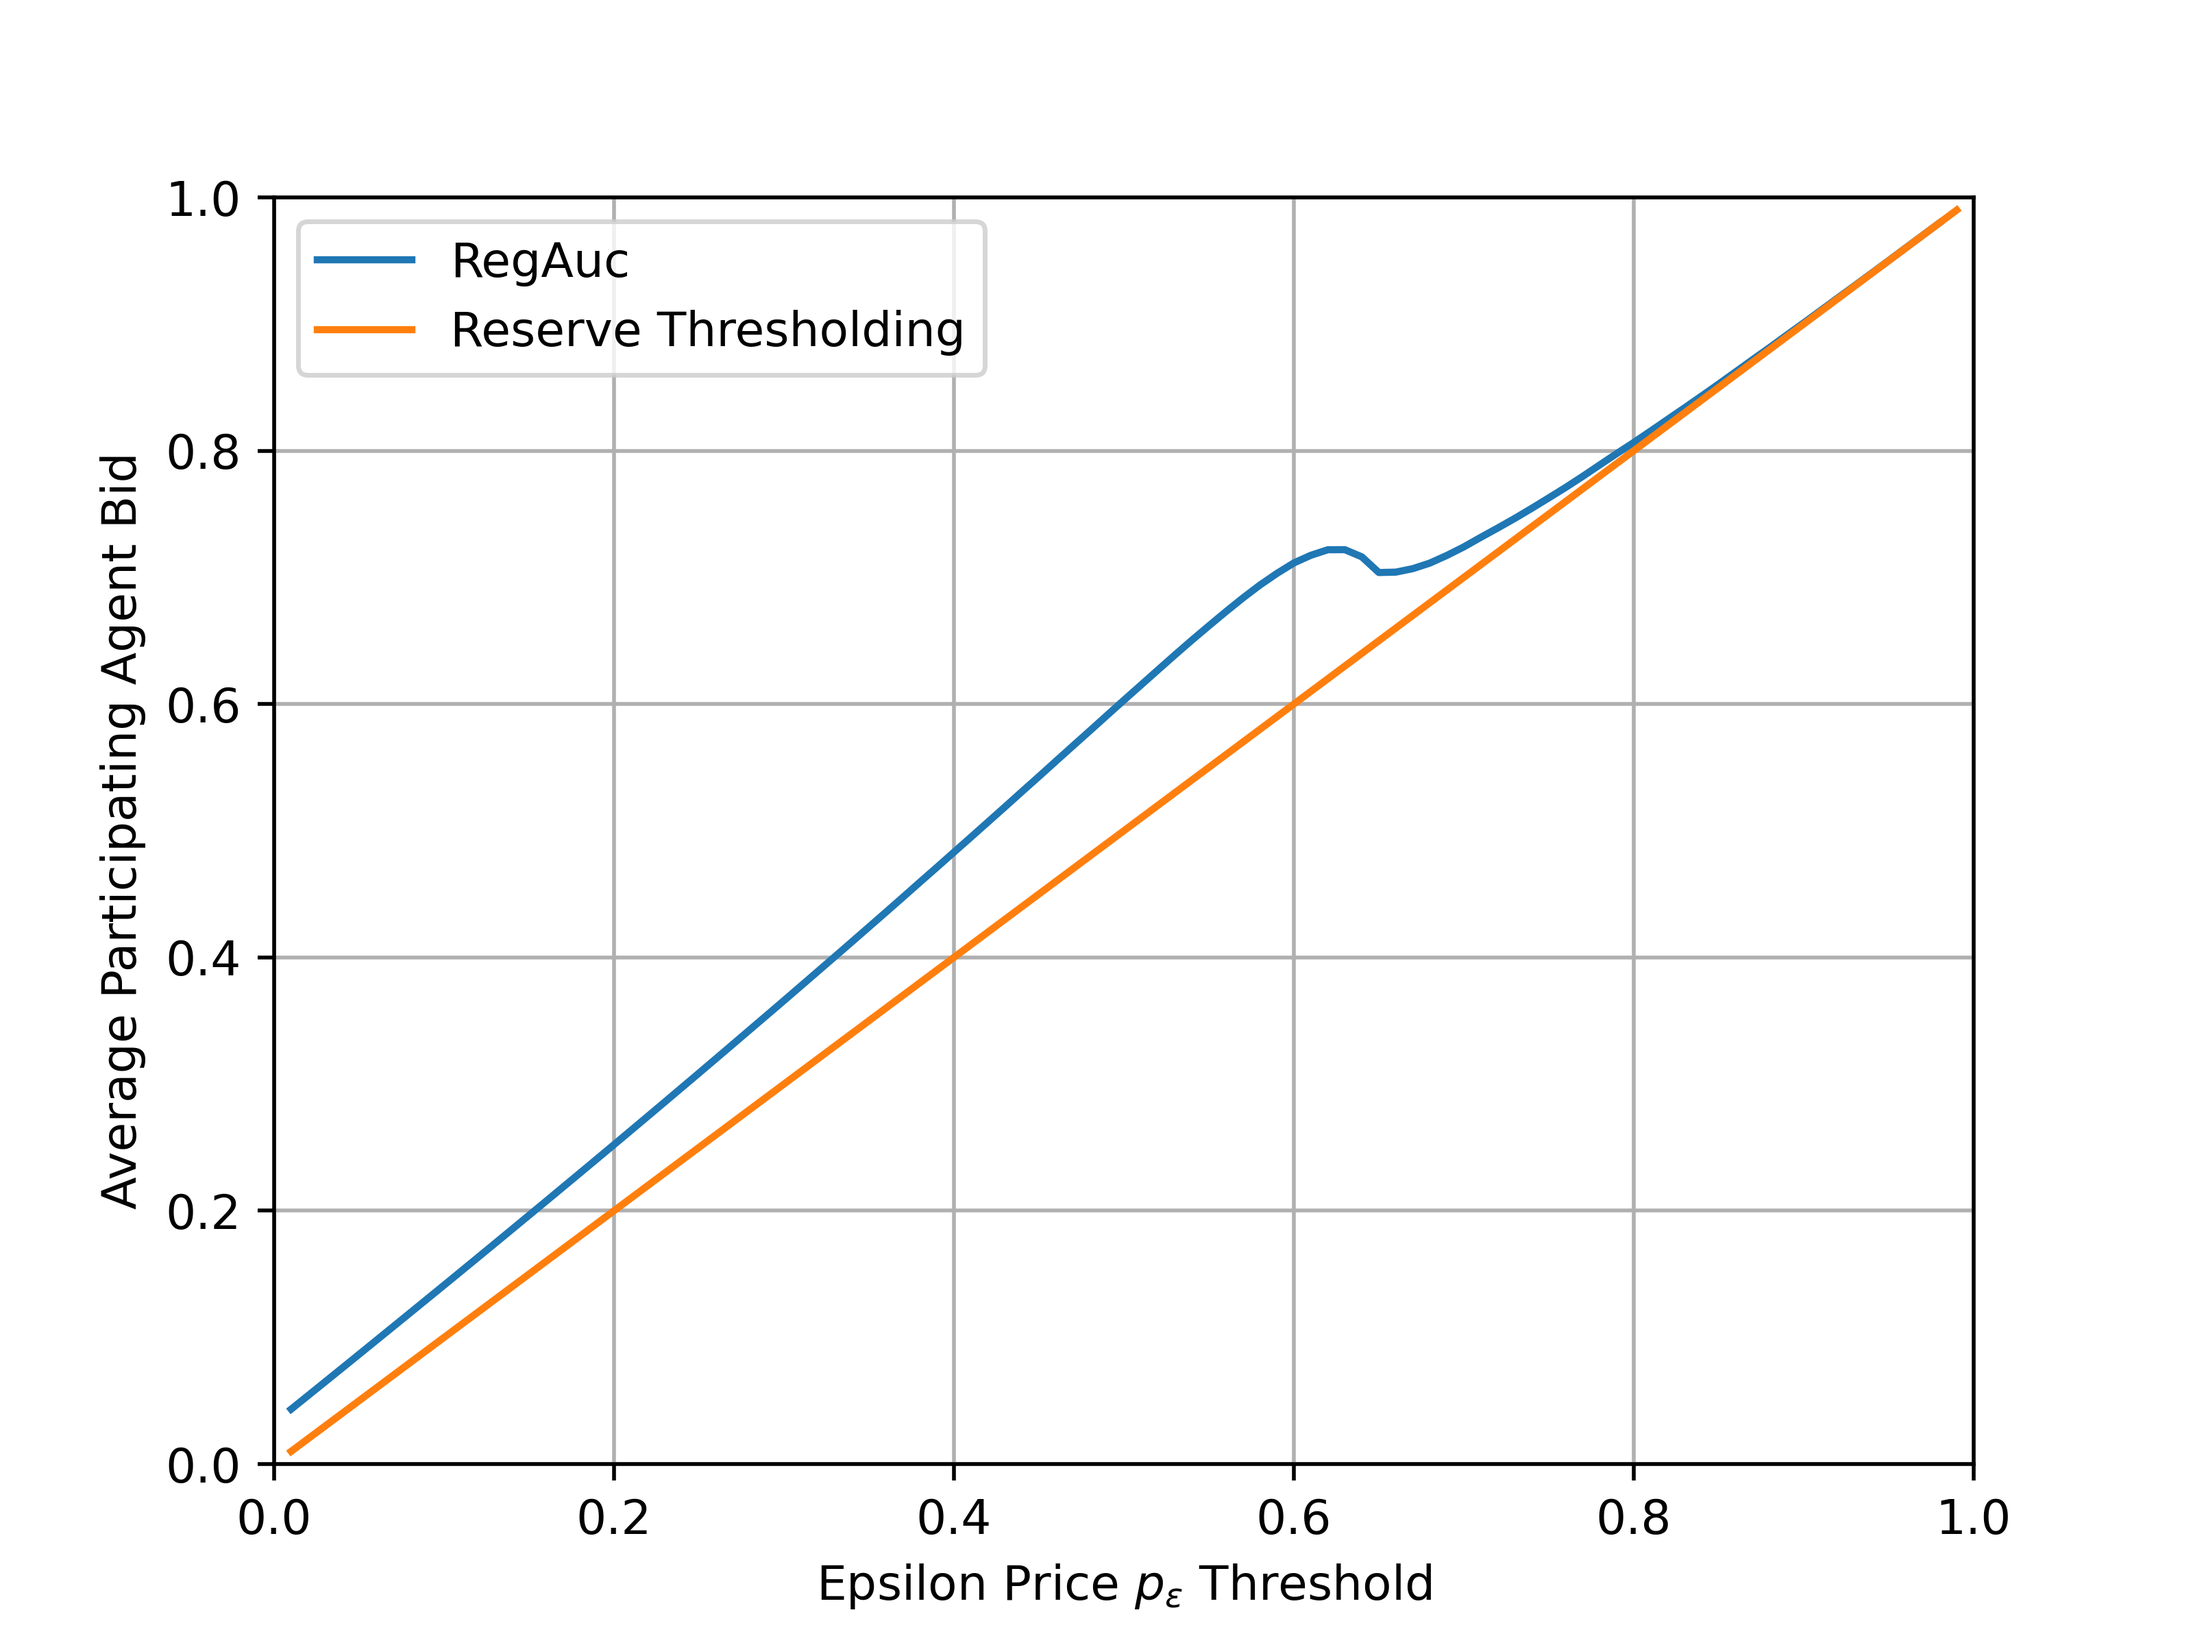
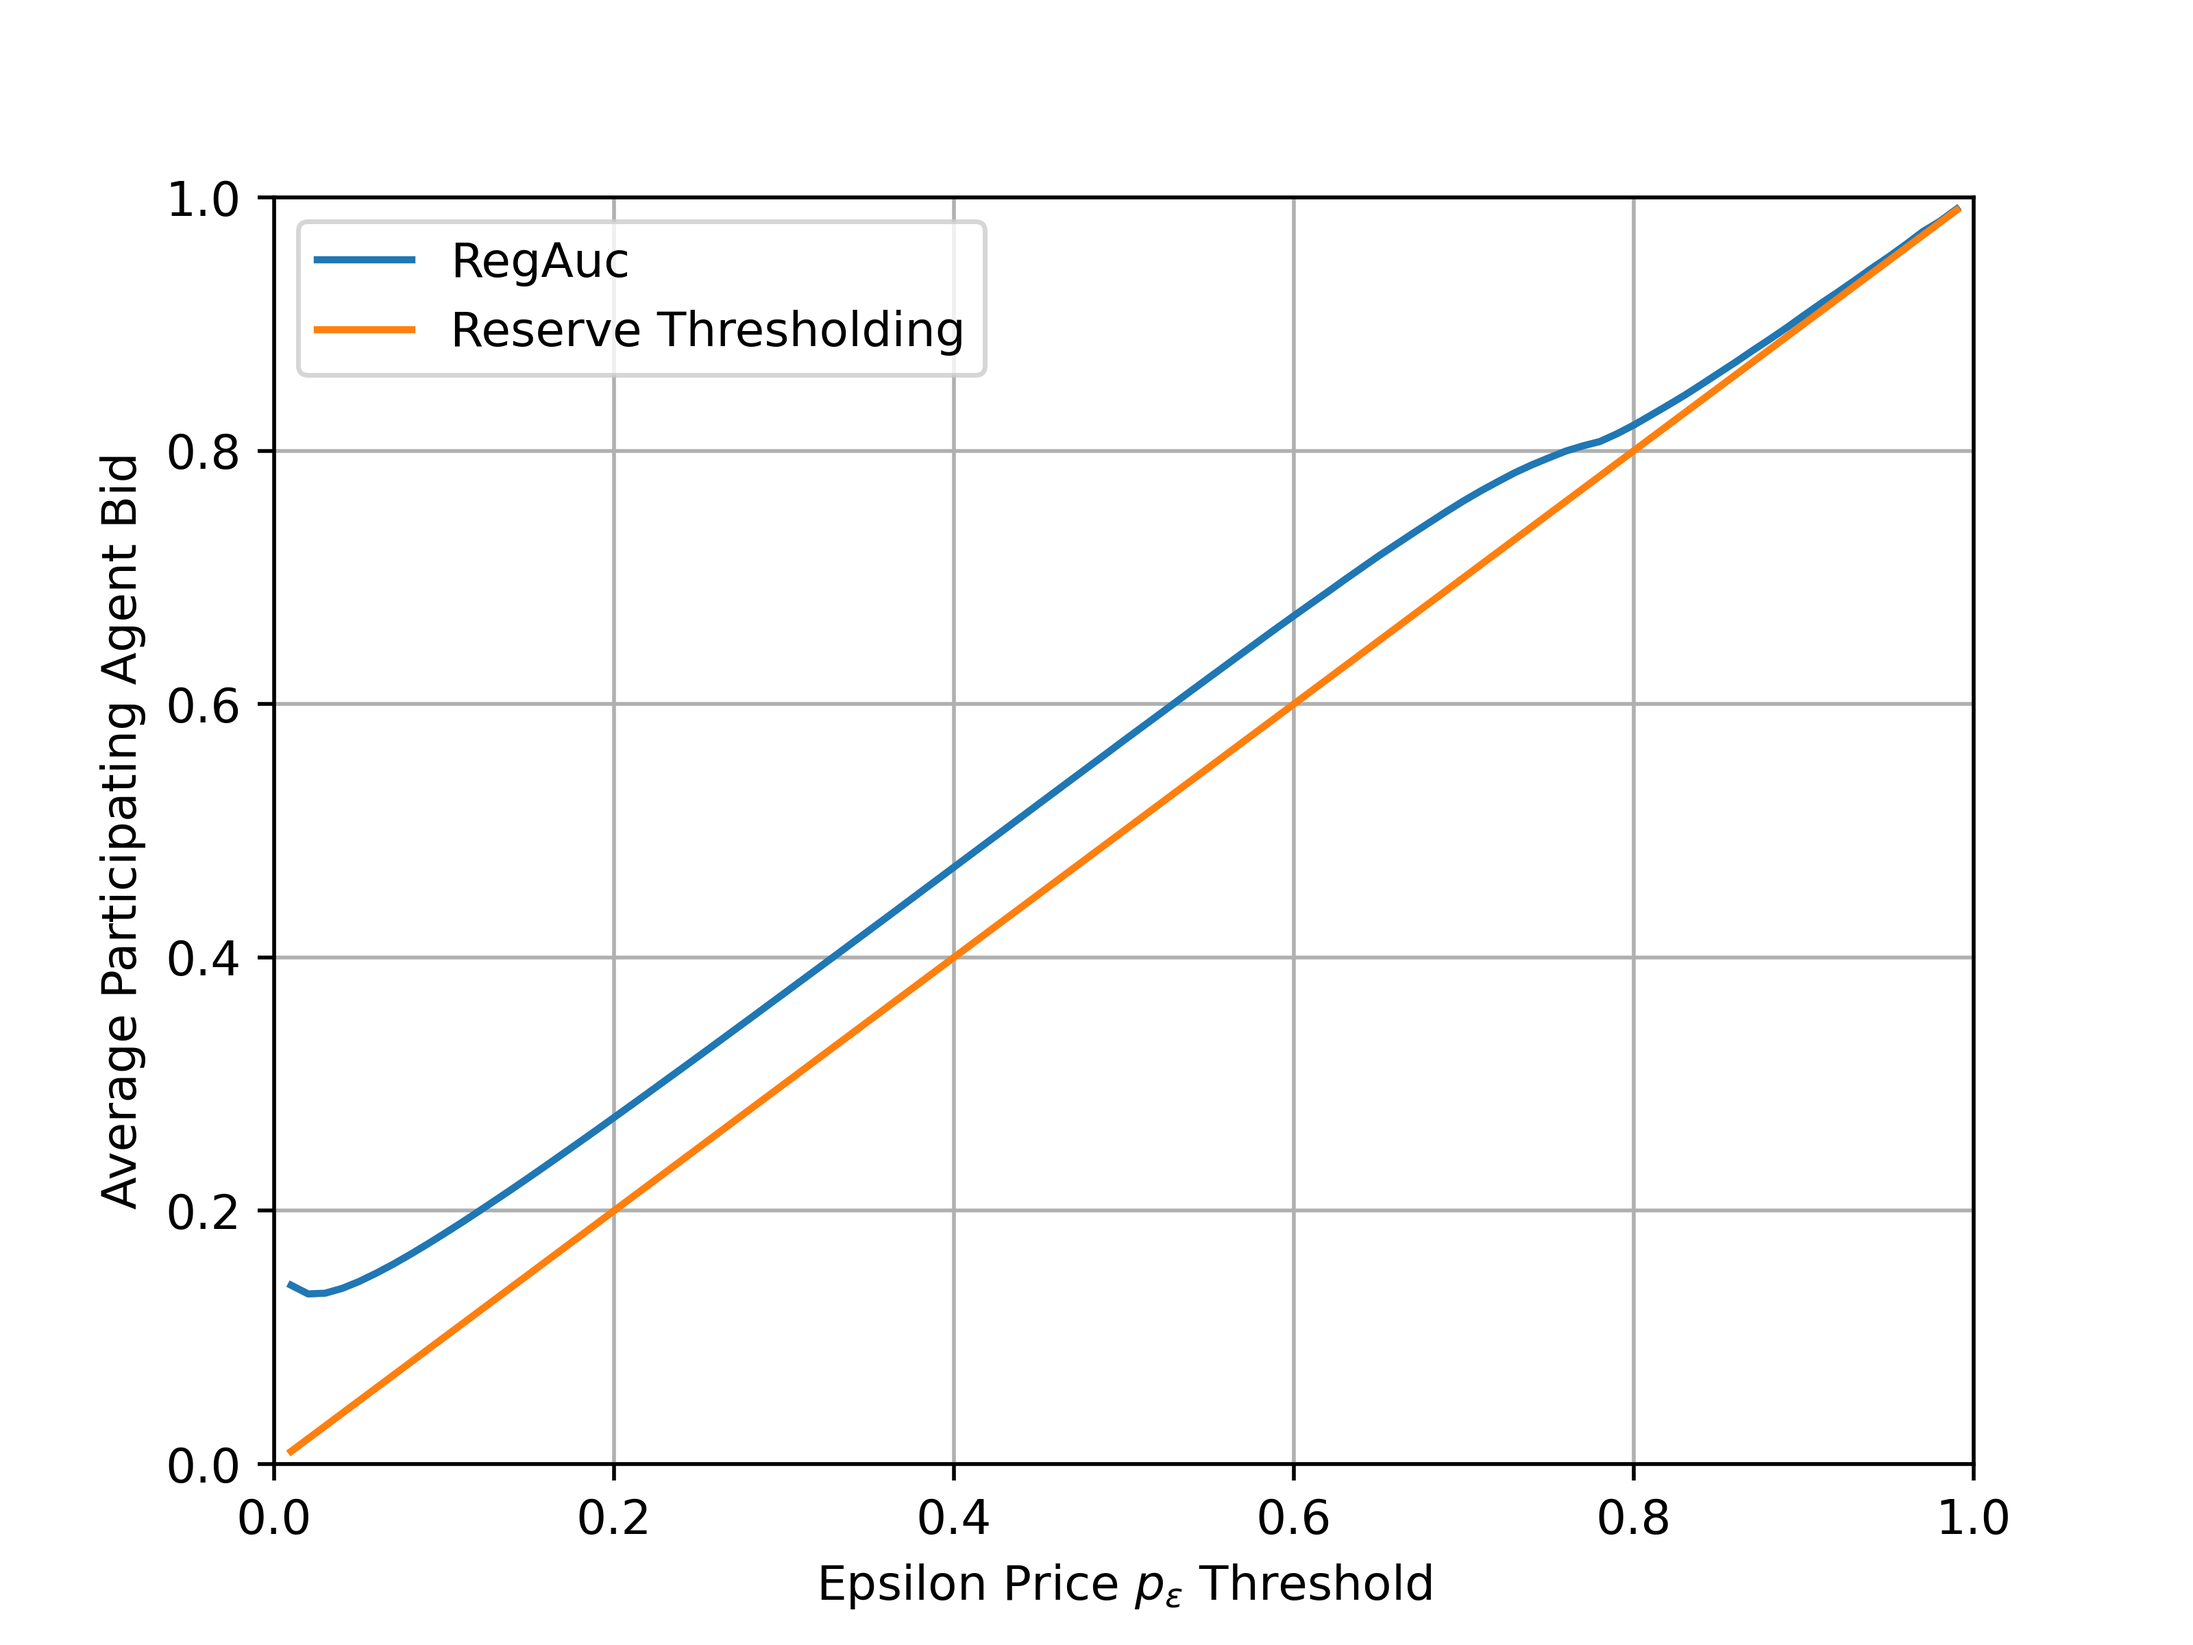
fix uniform distribution issue

diff --git a/equilibrium.py b/equilibrium.py
@@ -6,7 +6,7 @@ from tqdm import tqdm
 def regauc_equilibrium(lambda_max, beta=False):
 
     num_trials = 1000000
-    p_epsilon = 0.5
+    p_epsilon = 0.75
     diff = np.linspace(0.5, 1.5, 101, endpoint=True)
     i = 0
     pbar = tqdm(total=num_trials)
@@ -34,10 +34,9 @@ def regauc_equilibrium(lambda_max, beta=False):
         if beta:
             bids = np.minimum(1, p_epsilon + sq_v_i_p * (3 - 8 * v_i_p + 6 * sq_v_i_p))
         else:
-            Fv = (p_epsilon + 2*v_i_p*(np.log(2*v_i_p)-1))/(p_epsilon-1)
-            int_Fv = v_i_p*(2*p_epsilon + v_i_p*(2*np.log(2*v_i_p) - 3)) / (2*(p_epsilon - 1))
+            Fv = 2*v_i_p*np.log(1/p_epsilon) / (1-p_epsilon)
+            int_Fv = sq_v_i_p*np.log(1/p_epsilon) / (1-p_epsilon)
             bids = np.minimum(1, p_epsilon + v_i_p*Fv - int_Fv)
-            # bids = np.minimum(1,p_epsilon + sq_v_i_p * (2*np.log(2*v_i_p) - 1) / (2*(p_epsilon - 1)))
         utilities = v_i_d - bids + v_i_p * Fv
 
         # do not count the run if one agent utility is less than participatory
@@ -65,17 +64,12 @@ def regauc_equilibrium(lambda_max, beta=False):
     best_idx = np.argmax(mean_varied_utility)
     x_vals = diff*100 - 100
 
-    print('hey')
-    print(x_vals[best_idx])
-    print(x_vals[best_idx-3:best_idx+3])
-    print(mean_varied_utility[best_idx-3:best_idx+3])
-
     plt.figure()
     plt.plot(x_vals, mean_varied_utility)
     plt.plot(x_vals[best_idx], mean_varied_utility[best_idx], 'r*', markersize=5, label='Maximizer')
     plt.legend(loc='best')
     plt.grid()
-    plt.xlabel('Percentage Change to Theoretically Optimal Bid (%)')
+    plt.xlabel('Percentage Added/Subtracted to Theoretically Optimal Bid (%)')
     plt.ylabel('Average Agent Utility')
     plt.xlim([-50, 50])
 

diff --git a/simulations.py b/simulations.py
@@ -29,13 +29,10 @@ def regauc_sim(lambda_max, beta=False):
             ra_bids = np.minimum(p_epsilon + sq_v*(3 - 8*v_i_p + 6*sq_v), 1)
             ra_participation_utility = v_i_d + 2*sq_v*(3 - 6*v_i_p + 4*sq_v) - ra_bids
         else:
-            Fv = (p_epsilon + 2 * v_i_p * (np.log(2 * v_i_p) - 1)) / (p_epsilon - 1)
-            int_Fv = v_i_p * (2 * p_epsilon + v_i_p * (2 * np.log(2 * v_i_p) - 3)) / (2 * (p_epsilon - 1))
-            # Fv = np.maximum(0, (p_epsilon + 2 * v_i_p * (np.log(2 * v_i_p) - 1)) / (p_epsilon - 1))
-            # int_Fv = np.maximum(0, v_i_p * (2 * p_epsilon + v_i_p * (2 * np.log(2 * v_i_p) - 3)) / (2 * (p_epsilon - 1)))
+            Fv = 2 * v_i_p * np.log(1 / p_epsilon) / (1 - p_epsilon)
+            int_Fv = sq_v * np.log(1 / p_epsilon) / (1 - p_epsilon)
             ra_bids = np.minimum(1, p_epsilon + v_i_p * Fv - int_Fv)
             ra_participation_utility = v_i_d - ra_bids + v_i_p * Fv
-            # print(v_i_p * Fv)
         ra_participate_bool = ra_participation_utility > 0
         ra_num_participating = np.sum(ra_participate_bool)
         ra_rates[i] = 100 * ra_num_participating / num_agents
